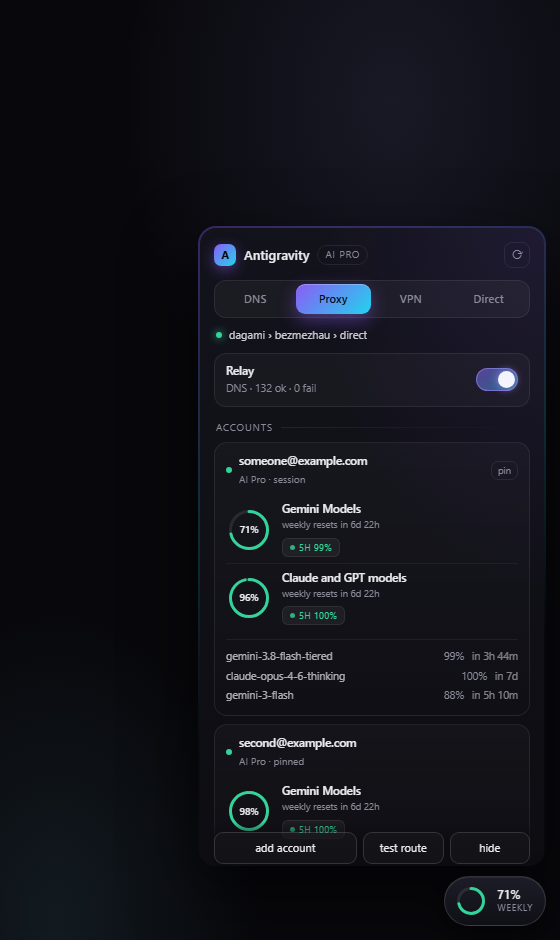
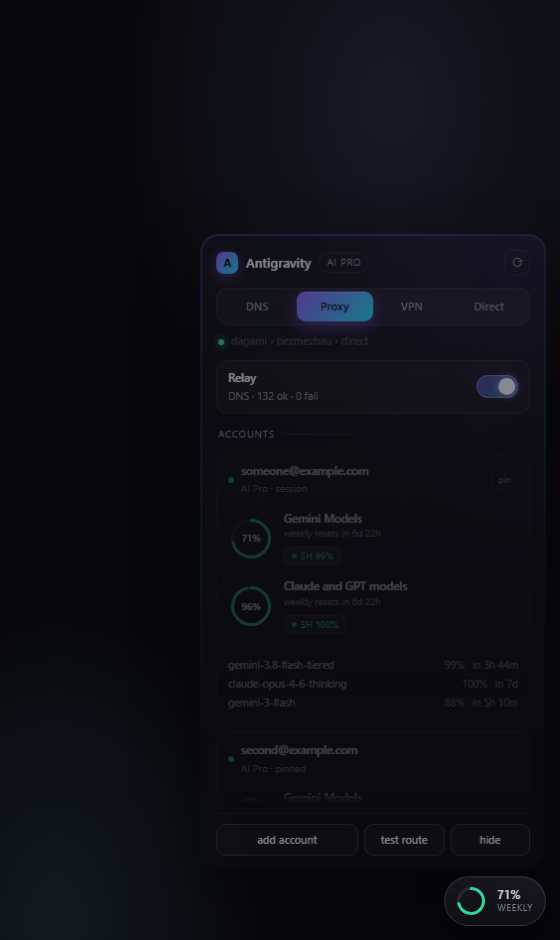
Panel motion, one-command install
The panel now moves instead of blinking: rise on open, fall on close (unmounted
only after the animation), a thumb that slides between the four modes, rings that
draw themselves from zero, cards that cascade, a status line that cross-fades when
the text changes, and press/hover feedback on every control. Pure CSS, no library,
and prefers-reduced-motion turns all of it off.

install.mjs does what the guide used to ask by hand: bridge into ~/.dsh/bridge,
plugin into the profile, and an insert entry in cordis.patch.yml. An existing
insert list is appended to rather than duplicated (YAML keeps only the last key of
a mapping, so a second 'insert' would silently drop plugins), an existing entry is
recognised, existing files are kept unless --force, and --dry-run prints the plan.
Tested on an empty home and on a patch file that already had plugins.

Also: the panel's scroll area and footer are separate containers now, so the
footer stops covering the last account, with a fade at the scroll edge.

diff --git a/plugins/quota-overlay/client.js b/plugins/quota-overlay/client.js
@@ -23,23 +23,39 @@ window.__ModuleLoader__.load({
 	--a:#8b5cf6;--b:#22d3ee;--good:#34d399;--warn:#fbbf24;--bad:#f87171;
 	font:12px/1.45 ui-sans-serif,system-ui,-apple-system,"Segoe UI",sans-serif;color:var(--text)}
 .agq *{box-sizing:border-box}
+@keyframes agq-panel-in{from{opacity:0;transform:translateY(8px) scale(.985)}to{opacity:1;transform:none}}
+@keyframes agq-panel-out{from{opacity:1;transform:none}to{opacity:0;transform:translateY(6px) scale(.99)}}
+@keyframes agq-rise{from{opacity:0;transform:translateY(5px)}to{opacity:1;transform:none}}
+@keyframes agq-fade{from{opacity:0;transform:translateY(-2px)}to{opacity:1;transform:none}}
+@keyframes agq-dash{from{stroke-dashoffset:var(--full)}to{stroke-dashoffset:var(--off)}}
+@keyframes agq-pulse{0%{box-shadow:0 0 0 0 rgba(139,92,246,.35)}100%{box-shadow:0 0 0 10px rgba(139,92,246,0)}}
+@media (prefers-reduced-motion:reduce){
+	.agq *{animation-duration:.001ms !important;animation-iteration-count:1 !important;transition-duration:.001ms !important}
+}
 .agq button{font:inherit;color:inherit;background:none;border:0;cursor:pointer}
 .agq .pill{display:flex;align-items:center;gap:9px;padding:7px 12px 7px 9px;border-radius:999px;
 	background:linear-gradient(180deg,rgba(30,30,42,.96),rgba(16,16,22,.96));
 	border:1px solid var(--line-strong);box-shadow:0 10px 30px rgba(0,0,0,.55),inset 0 1px 0 rgba(255,255,255,.06);
 	transition:transform .16s ease,box-shadow .16s ease}
 .agq .pill:hover{transform:translateY(-1px);box-shadow:0 14px 36px rgba(0,0,0,.6),inset 0 1px 0 rgba(255,255,255,.09)}
+.agq .pill:active{transform:scale(.97)}
+.agq .pill{transition:transform .16s ease,box-shadow .16s ease}
 .agq .pill b{display:block;font-size:12px;font-weight:600;letter-spacing:.01em;font-variant-numeric:tabular-nums;line-height:1.15}
 .agq .pill span.sub{display:block;font-size:9px;color:var(--muted);letter-spacing:.08em;text-transform:uppercase}
-.agq .panel{width:348px;max-width:calc(100vw - 28px);max-height:min(74vh,640px);overflow:auto;overscroll-behavior:contain;
+.agq .panel{display:flex;overflow:hidden;animation:agq-panel-in .24s cubic-bezier(.2,.9,.25,1) both;transform-origin:bottom right}
+.agq .panel.closing{animation:agq-panel-out .16s ease-in forwards}
+.agq .panel{width:348px;max-width:calc(100vw - 28px);max-height:min(74vh,640px);
 	margin-bottom:10px;border-radius:18px;padding:2px;
 	background:linear-gradient(160deg,rgba(139,92,246,.35),rgba(34,211,238,.18) 42%,transparent 70%);
 	box-shadow:0 26px 70px rgba(0,0,0,.65)}
-.agq .panel-in{border-radius:16px;padding:14px 14px 12px;background:
+.agq .panel-in{display:flex;flex-direction:column;min-height:0;flex:1;max-height:calc(min(74vh,640px) - 4px);border-radius:16px;padding:14px 14px 12px;background:
 	radial-gradient(120% 90% at 100% 0%,rgba(139,92,246,.10),transparent 55%),
 	linear-gradient(180deg,rgba(19,19,27,.99),rgba(12,12,17,.99))}
-.agq .panel-in::-webkit-scrollbar{width:6px}
-.agq .panel-in::-webkit-scrollbar-thumb{background:rgba(255,255,255,.12);border-radius:99px}
+.agq .scroll{flex:1;min-height:0;overflow:auto;overscroll-behavior:contain;margin:0 -2px;padding:0 2px 2px;
+	-webkit-mask-image:linear-gradient(180deg,#000 calc(100% - 16px),transparent);
+	mask-image:linear-gradient(180deg,#000 calc(100% - 16px),transparent)}
+.agq .scroll::-webkit-scrollbar{width:6px}
+.agq .scroll::-webkit-scrollbar-thumb{background:rgba(255,255,255,.12);border-radius:99px}
 .agq .head{display:flex;align-items:center;gap:8px;margin-bottom:12px}
 .agq .mark{width:22px;height:22px;border-radius:7px;display:grid;place-items:center;font-size:11px;font-weight:700;
 	background:linear-gradient(135deg,var(--a),var(--b));color:#08080c;box-shadow:0 4px 14px rgba(139,92,246,.45)}
@@ -51,16 +67,20 @@ window.__ModuleLoader__.load({
 .agq .icon:hover{color:var(--text);border-color:var(--line-strong);background:rgba(255,255,255,.04)}
 .agq .icon.busy{animation:agq-spin 1s linear infinite;color:var(--b)}
 @keyframes agq-spin{to{transform:rotate(360deg)}}
-.agq .seg{display:grid;grid-template-columns:repeat(4,1fr);gap:3px;padding:3px;border-radius:12px;
+.agq .seg{position:relative;display:grid;grid-template-columns:repeat(4,1fr);gap:3px;padding:3px;border-radius:12px;
 	background:rgba(255,255,255,.04);border:1px solid var(--line)}
+.agq .seg .thumb{position:absolute;top:3px;bottom:3px;width:calc((100% - 6px) / 4);border-radius:9px;
+	background:linear-gradient(135deg,#8b5cf6,#22d3ee);box-shadow:0 6px 18px rgba(139,92,246,.45),inset 0 1px 0 rgba(255,255,255,.25);
+	transition:left .26s cubic-bezier(.3,1.1,.4,1);pointer-events:none}
+.agq .seg button{position:relative;z-index:1}
 .agq .seg button{padding:7px 0;border-radius:9px;font-size:11px;font-weight:500;color:var(--muted);
 	transition:.15s;letter-spacing:.01em}
 .agq .seg button:hover{color:var(--text);background:rgba(255,255,255,.05)}
-.agq .seg button.on{color:#0a0a10;font-weight:600;
-	background:linear-gradient(135deg,#8b5cf6,#22d3ee);box-shadow:0 6px 18px rgba(139,92,246,.45),inset 0 1px 0 rgba(255,255,255,.25)}
+.agq .seg button.on{color:#0a0a10;font-weight:600}
 .agq .state{display:flex;align-items:center;gap:7px;margin:9px 2px 0;font-size:11px;color:var(--muted)}
 .agq .dot{width:6px;height:6px;border-radius:99px;flex:0 0 auto}
-.agq .state em{font-style:normal;color:var(--text);opacity:.85;overflow:hidden;text-overflow:ellipsis;white-space:nowrap}
+.agq .state em{font-style:normal;color:var(--text);opacity:.85;overflow:hidden;text-overflow:ellipsis;white-space:nowrap;
+	animation:agq-fade .2s ease both}
 .agq .relay{display:flex;align-items:center;gap:10px;margin-top:10px;padding:9px 11px;border-radius:12px;
 	background:rgba(255,255,255,.03);border:1px solid var(--line)}
 .agq .relay .txt{flex:1;min-width:0}
@@ -76,7 +96,10 @@ window.__ModuleLoader__.load({
 	letter-spacing:.12em;text-transform:uppercase;color:var(--muted)}
 .agq .sect:after{content:"";flex:1;height:1px;background:linear-gradient(90deg,var(--line),transparent)}
 .agq .card{border:1px solid var(--line);border-radius:13px;padding:10px 11px;margin-bottom:8px;
-	background:linear-gradient(180deg,rgba(255,255,255,.028),rgba(255,255,255,.008))}
+	background:linear-gradient(180deg,rgba(255,255,255,.028),rgba(255,255,255,.008));
+	animation:agq-rise .3s cubic-bezier(.2,.9,.25,1) both;transition:border-color .18s,transform .18s,box-shadow .18s}
+.agq .card:hover{border-color:rgba(255,255,255,.16);transform:translateY(-1px);
+	box-shadow:0 8px 24px rgba(0,0,0,.35)}
 .agq .card .top{display:flex;align-items:center;gap:7px;margin-bottom:8px}
 .agq .who{flex:1;min-width:0}
 .agq .who b{display:block;font-size:11.5px;font-weight:600;overflow:hidden;text-overflow:ellipsis;white-space:nowrap}
@@ -97,6 +120,7 @@ window.__ModuleLoader__.load({
 .agq .bar i{display:block;height:100%;border-radius:99px;transition:width .5s cubic-bezier(.3,.8,.4,1)}
 .agq .ring{position:relative;width:46px;height:46px;flex:0 0 auto}
 .agq .ring svg{transform:rotate(-90deg)}
+.agq .ring .arc{animation:agq-dash .7s cubic-bezier(.3,.9,.3,1)}
 .agq .ring b{position:absolute;inset:0;display:grid;place-items:center;font-size:10px;font-weight:600;
 	letter-spacing:-.02em;font-variant-numeric:tabular-nums}
 .agq .rows{margin-top:8px;padding-top:7px;border-top:1px solid rgba(255,255,255,.06)}
@@ -105,11 +129,12 @@ window.__ModuleLoader__.load({
 .agq .row .pct{font-variant-numeric:tabular-nums}
 .agq .empty{font-size:10.5px;color:var(--muted);padding:2px 0}
 .agq .err{font-size:10.5px;color:var(--bad);padding:2px 0;word-break:break-word}
-.agq .foot{display:flex;gap:6px;margin-top:10px;position:sticky;bottom:-12px;padding:10px 0 12px;
-	background:linear-gradient(180deg,rgba(12,12,17,0),rgba(12,12,17,.92) 40%,rgba(12,12,17,.99))}
+.agq .foot{display:flex;gap:6px;margin-top:10px;flex:0 0 auto;padding-top:10px;border-top:1px solid rgba(255,255,255,.06)}
 .agq .btn{flex:1;border:1px solid var(--line-strong);border-radius:9px;padding:7px 8px;font-size:11px;
 	color:var(--text);background:rgba(255,255,255,.03);transition:.15s}
-.agq .btn:hover{background:rgba(255,255,255,.07)}
+.agq .btn:hover{background:rgba(255,255,255,.07);transform:translateY(-1px)}
+.agq .btn:active{transform:scale(.985)}
+.agq .btn{transition:.15s,transform .12s}
 .agq .btn:disabled{opacity:.45;cursor:default}
 .agq .btn.wide{flex:2}
 .agq .input{width:100%;margin-top:7px;background:rgba(0,0,0,.35);border:1px solid var(--line-strong);
@@ -260,7 +285,12 @@ window.__ModuleLoader__.load({
 						strokeLinecap: "round",
 						strokeDasharray: circumference,
 						strokeDashoffset: circumference - filled,
-						style: { transition: "stroke-dashoffset .5s cubic-bezier(.3,.8,.4,1)" }
+						className: "arc",
+						style: {
+							transition: "stroke-dashoffset .5s cubic-bezier(.3,.8,.4,1)",
+							"--full": circumference,
+							"--off": circumference - filled
+						}
 					})
 				),
 				bare ? null : h("b", null, pct + "%")
@@ -278,9 +308,14 @@ window.__ModuleLoader__.load({
 				{ id: "vpn", label: "VPN" },
 				{ id: "direct", label: "Direct" }
 			];
+			const index = Math.max(0, options.findIndex((option) => option.id === value));
 			return h(
 				"div",
 				{ className: "seg", role: "tablist" },
+				h("span", {
+					className: "thumb",
+					style: { left: "calc(3px + " + index + " * ((100% - 6px) / 4))" }
+				}),
 				options.map((option) =>
 					h(
 						"button",
@@ -329,7 +364,7 @@ window.__ModuleLoader__.load({
 				"div",
 				null,
 				h(Segmented, { value: mode, onChange: onMode }),
-				h("div", { className: "state" }, h("span", { className: "dot", style: { background: dotColor, boxShadow: "0 0 8px " + dotColor } }), h("em", null, detail)),
+				h("div", { className: "state" }, h("span", { className: "dot", style: { background: dotColor, boxShadow: "0 0 8px " + dotColor } }), h("em", { key: detail }, detail)),
 				h(
 					"div",
 					{ className: "relay" },
@@ -395,7 +430,7 @@ window.__ModuleLoader__.load({
 			);
 		}
 
-		function AccountCard({ account, pinned, onPin }) {
+		function AccountCard({ account, pinned, onPin, index = 0 }) {
 			const groups = account.groups || [];
 			const models = Object.entries(account.models || {})
 				.filter(([id]) => KEEP_MODEL(id))
@@ -404,7 +439,7 @@ window.__ModuleLoader__.load({
 
 			return h(
 				"div",
-				{ className: "card" },
+				{ className: "card", style: { animationDelay: index * 45 + "ms" } },
 				h(
 					"div",
 					{ className: "top" },
@@ -463,13 +498,28 @@ window.__ModuleLoader__.load({
 			const worst = primary ? worstOf(primary) : null;
 			const health = error ? "var(--bad)" : worst === null ? "var(--muted)" : toneOf(worst);
 
-			const toggle = () =>
-				setOpen((value) => {
+			const [closing, setClosing] = React.useState(false);
+
+			// Closing plays out before unmounting: a panel that vanishes on click reads as a
+			// glitch, one that steps back reads as an answer.
+			const toggle = () => {
+				const persist = (value) => {
 					try {
-						localStorage.setItem(OPEN_KEY, value ? "0" : "1");
+						localStorage.setItem(OPEN_KEY, value);
 					} catch {}
-					return !value;
-				});
+				};
+				if (!open) {
+					setOpen(true);
+					persist("1");
+					return;
+				}
+				setClosing(true);
+				setTimeout(() => {
+					setClosing(false);
+					setOpen(false);
+					persist("0");
+				}, 150);
+			};
 
 			const patch = async (body, label) => {
 				setBusy(true);
@@ -563,7 +613,7 @@ window.__ModuleLoader__.load({
 				open
 					? h(
 							"div",
-							{ className: "panel" },
+							{ className: "panel" + (closing ? " closing" : "") },
 							h(
 								"div",
 								{ className: "panel-in" },
@@ -579,7 +629,10 @@ window.__ModuleLoader__.load({
 										"⟳"
 									)
 								),
-								h(Transport, {
+								h(
+								"div",
+								{ className: "scroll" },
+h(Transport, {
 									egress,
 									busy,
 									note,
@@ -590,15 +643,17 @@ window.__ModuleLoader__.load({
 								}),
 								h("div", { className: "sect" }, "accounts"),
 								accounts.length
-									? accounts.map((account) =>
+									? accounts.map((account, index) =>
 											h(AccountCard, {
 												key: account.id,
+												index,
 												account,
 												pinned: account.id === (data && data.pinned),
 												onPin: pin
 											})
 										)
 									: h("div", { className: "empty" }, error ? "bridge unreachable" : "no accounts"),
+							),
 								h(
 									"div",
 									{ className: "foot" },

diff --git a/docs/plugin-install.md b/docs/plugin-install.md
@@ -23,7 +23,23 @@ then worry about transports.
 
 ---
 
-## 1. Put the bridge where the plugin expects it
+## 1. One command (or the manual route below)
+
+```bash
+git clone https://github.com/ext3ndedsoft/gemini-to-dsh.git
+cd gemini-to-dsh
+node install.mjs
+```
+
+That copies the bridge into `~/.dsh/bridge`, the panel into
+`~/.dsh/profiles/web/plugins/quota-overlay`, and appends the plugin entry to
+`~/.dsh/profiles/web/cordis.patch.yml` — without touching an entry that is already there.
+Safe to run twice. Flags: `--dry-run`, `--force`, `--bridge-only`, `--plugin-only`,
+`--dsh-home <dir>`, `--profile <name>`.
+
+If you would rather see what it does, steps 2–5 are the same thing by hand.
+
+## 2. Put the bridge where the plugin expects it
 
 The plugin looks for `bridge.js` in `~/.dsh/bridge` (`AG_BRIDGE_DIR` overrides it).
 
@@ -44,7 +60,7 @@ Copy-Item "gemini-to-dsh\bridge\*" "$HOME\.dsh\bridge\" -Recurse -Force
 That folder is the whole bridge: `bridge.js`, `server.js`, `egress.js`, `lib/`, `accounts.js`.
 Nothing to `npm install`.
 
-## 2. Give the bridge your Google credentials
+## 3. Give the bridge your Google credentials
 
 The bridge reuses the OAuth tokens that your subscription already created — it does not ask for
 a password and does not store one.
@@ -63,7 +79,7 @@ Refreshing those tokens needs an OAuth client, which is **not** shipped here. Pu
 or export `AG_CLIENT_ID` / `AG_CLIENT_SECRET`. The bridge starts fine without it until a token
 actually expires, then it will say so.
 
-## 3. Pick a transport
+## 4. Pick a transport
 
 If Google answers from your machine directly, skip this step entirely — the default chain will
 fall through to `direct` on its own.
@@ -79,7 +95,7 @@ If it does not, open `~/.dsh/ag-egress.json` (it is created on first start) and 
 Which one applies to you, and why, is in [transports.md](transports.md). The panel has the same
 switch, so you can also just try them there once it is installed.
 
-## 4. Install the plugin
+## 5. Install the plugin
 
 ```bash
 mkdir -p ~/.dsh/profiles/web/plugins
@@ -105,7 +121,7 @@ copy the block instead of retyping it.
 Restart the DSH shell. The panel appears as a small pill in the bottom-right corner; click it to
 open.
 
-## 5. Check that it works
+## 6. Check that it works
 
 Open the panel and look at the top:
 
@@ -122,7 +138,7 @@ curl -s 127.0.0.1:8787/limits -H 'authorization: Bearer local-bridge' | head -c 
 curl -s 127.0.0.1:8789/ | grep -o '"mode"[^,]*'
 ```
 
-## 6. If something is off
+## 7. If something is off
 
 | Symptom | Cause | Fix |
 | --- | --- | --- |
@@ -133,7 +149,7 @@ curl -s 127.0.0.1:8789/ | grep -o '"mode"[^,]*'
 | everything is green but requests fail | transport is wrong for your network | try `direct`, then a relay, then `proxy` — one at a time |
 | weekly rings are missing, five-hour works | Google did not return groups for that account | nothing to fix; the per-model numbers still work |
 
-## 7. What it talks to
+## 8. What it talks to
 
 Two local ports, both bound to loopback:
 

diff --git a/README.md b/README.md
@@ -64,6 +64,16 @@ DSH / любой OpenAI-клиент
 
 ## Быстрый старт
 
+### Одной командой
+
+```bash
+git clone https://github.com/ext3ndedsoft/gemini-to-dsh.git
+cd gemini-to-dsh
+node install.mjs
+```
+
+Ставит мост в `~/.dsh/bridge`, панель квоты в профиль DSH и дописывает её в `cordis.patch.yml` — не трогая то, что там уже есть. Повторный запуск ничего не дублирует. Дальше остаются только креды. По шагам, если хочется руками: [docs/plugin-install.md](docs/plugin-install.md).
+
 ### Если Гугл доступен напрямую
 
 ```bash

diff --git a/plugins/quota-overlay/README.md b/plugins/quota-overlay/README.md
@@ -28,6 +28,13 @@ from. It is the same thing as the segmented control, sized for a thumb.
 **Accounts.** Which is pinned (served first), which is a session, which is dead and why. `pin`
 reorders the pool; `add account` starts the OAuth flow in a new tab.
 
+## Motion
+
+The panel steps in rather than blinking in: a short rise on open, a shorter fall on close, the
+mode thumb slides between segments, rings draw themselves from zero, account cards cascade in,
+and the status line cross-fades when the text changes. Everything is CSS — no animation library,
+no layout thrash — and `prefers-reduced-motion` turns all of it off.
+
 ## Requirements
 
 - the bridge on `127.0.0.1:8787` (`~/.dsh/bridge/bridge.js`);

diff --git a/README.en.md b/README.en.md
@@ -64,6 +64,19 @@ The panel shows both Google quotas per account — the five-hour one and the **w
 
 ## Quick start
 
+### One command
+
+```bash
+git clone https://github.com/ext3ndedsoft/gemini-to-dsh.git
+cd gemini-to-dsh
+node install.mjs
+```
+
+Installs the bridge into `~/.dsh/bridge`, the quota panel into the DSH profile, and appends the
+plugin entry to `cordis.patch.yml` without touching what is already there. Running it twice
+duplicates nothing; only credentials are left. Step by step, by hand:
+[docs/plugin-install.md](docs/plugin-install.md).
+
 ### If Google is reachable from your network
 
 ```bash
